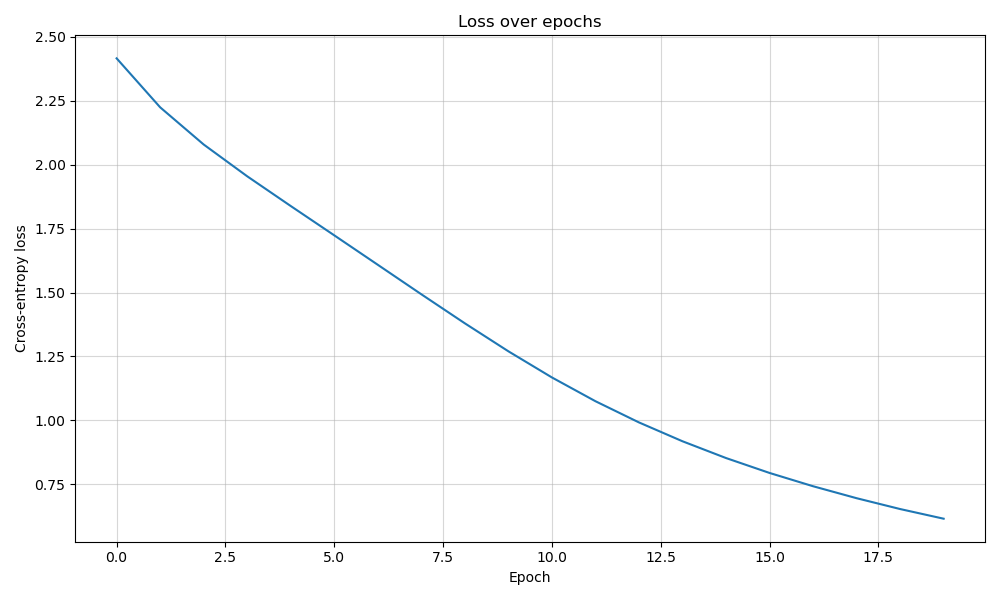
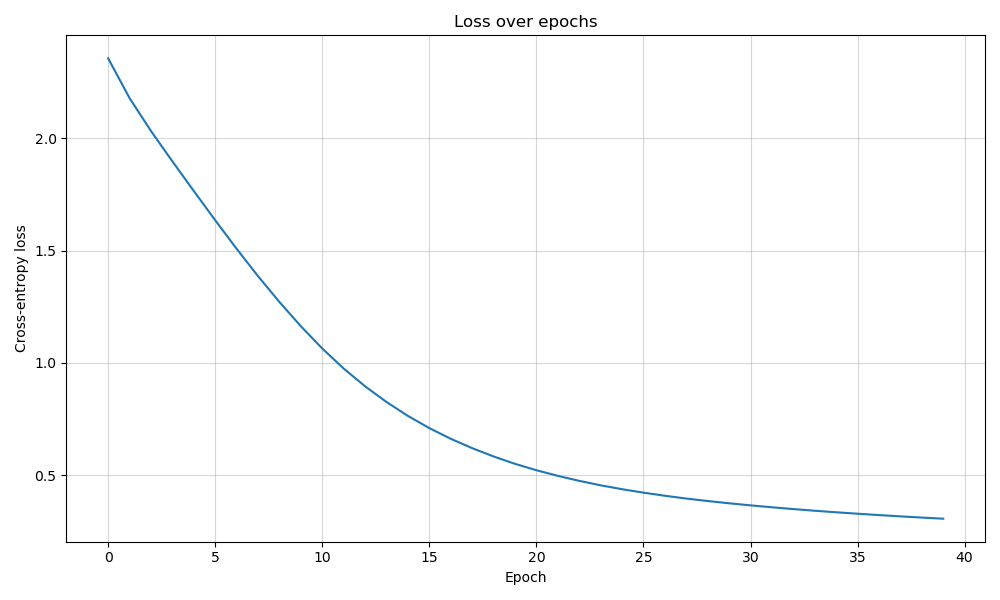
final numba implementation using fastmath

diff --git a/numba_optimization/parallel_model.py b/numba_optimization/parallel_model.py
@@ -1,87 +1,148 @@
 import numpy as np
-from numba import njit, prange # type: ignore
-from tqdm import tqdm
+from numba import njit #type: ignore
+import sys
+import os
 import time
+from tqdm import tqdm  # or from tqdm.notebook import tqdm if in a notebook
+
+# Add the project root directory to sys.path
+sys.path.insert(0, os.path.abspath(os.path.join(os.path.dirname(__file__), '..')))
+
 from adam import AdamOptimizer
 
-@njit
-def relu(x):
-    return np.maximum(x, 0)
+# Standalone functions decorated with fastmath
+@njit(fastmath=True)
+def relu_core(x):
+    return np.maximum(0, x)
 
-@njit
-def softmax(x):
+@njit(fastmath=True)
+def softmax_core(x):
     exp_x = np.exp(x)
-    sum_exp = np.sum(exp_x)
+    # Replace keepdims=True with a reshape
+    sum_exp = np.sum(exp_x, axis=1).reshape(-1, 1)
     return exp_x / sum_exp
 
-@njit(parallel=True)
-def batch_forward_prop(X_batch, W1, b1, W2, b2, W3, b3):
-    n_samples = X_batch.shape[0]
-    outputs = np.empty((n_samples, W3.shape[1]))
-    #Loop over each sample in the batch in parallel
-    for i in prange(n_samples):
-        #Forward pass
-        z1 = np.dot(X_batch[i], W1) + b1
-        a1 = relu(z1)
-        z2 = np.dot(a1, W2) + b2
-        a2 = relu(z2)
-        z3 = np.dot(a2, W3) + b3
-        a3 = softmax(z3)
-        outputs[i] = a3
-    return outputs
+@njit(fastmath=True)
+def forward_prop_core(X, W1, b1, W2, b2, W3, b3):
+    # Compute layer 1
+    z1 = np.dot(X, W1) + b1
+    a1 = relu_core(z1)
+    # Compute layer 2
+    z2 = np.dot(a1, W2) + b2
+    a2 = relu_core(z2)
+    # Compute output layer
+    z3 = np.dot(a2, W3) + b3
+    a3 = softmax_core(z3)
+    return a3, z1, a1, z2, a2, z3
 
-@njit
-def cross_entropy_loss_numba(y, y_hat):
-    m = y.shape[0]
-    # Compute loss averaged over batch
-    loss = -np.sum(y * np.log(y_hat)) / m
-    return loss
+@njit(fastmath=True)
+def cross_entropy_loss_core(y, y_hat):
+    return -np.sum(y * np.log(y_hat)) / y.shape[0]
 
 class NeuralNetwork:
-
+    
     def __init__(self, input_size, hidden_size, output_size):
         self.input_size = input_size
         self.hidden_size = hidden_size
         self.output_size = output_size
-        self._init_params(input_size, hidden_size, output_size)
+        self.init_params(input_size, hidden_size, output_size)
 
-    def He_initialization(self, size1, size2):
-        return np.random.randn(size1, size2) * np.sqrt(2/size1)
+    def He_initialization(self, input_size, hidden_size):
+        return np.random.randn(input_size, hidden_size) * np.sqrt(2/input_size)
     
-    def _init_params(self, input_size, hidden_size, output_size):
+    def init_params(self, input_size, hidden_size, output_size):
         self.W1 = self.He_initialization(input_size, hidden_size)
-        self.b1 = np.zeros(hidden_size)
+        self.b1 = np.zeros((1, hidden_size))
         self.W2 = self.He_initialization(hidden_size, hidden_size)
-        self.b2 = np.zeros(hidden_size)
+        self.b2 = np.zeros((1, hidden_size))
         self.W3 = self.He_initialization(hidden_size, output_size)
-        self.b3 = np.zeros(output_size)
+        self.b3 = np.zeros((1, output_size))
+    
+    def warmup(self):
+        # Warm up the JIT compiler
+        relu_core(np.zeros((1, self.hidden_size)))
+        softmax_core(np.zeros((1, self.output_size)))
+        forward_prop_core(np.zeros((1, self.input_size)), self.W1, self.b1, self.W2, self.b2, self.W3, self.b3)
+        cross_entropy_loss_core(np.zeros((1, self.output_size)), np.zeros((1, self.output_size)))
 
-    def warm_up(self, X):
-        _ = batch_forward_prop(X[:2], self.W1, self.b1, self.W2, self.b2, self.W3, self.b3)
-        _ = relu(np.array([1.0, -1.0]))
-        _ = softmax(np.array([1.0, 2.0]))
-
-    def forward(self, X):
-        return batch_forward_prop(X, self.W1, self.b1, self.W2, self.b2, self.W3, self.b3)
-
-    def train(self, X, epochs, batch_size):
-        n_samples = X.shape[0]
-        n_batches = n_samples // batch_size
-
+    def forward_propagation(self, X):
+        # Call the standalone, fastmath-enabled function
+        self.a3, self.z1, self.a1, self.z2, self.a2, self.z3 = forward_prop_core(
+            X, self.W1, self.b1, self.W2, self.b2, self.W3, self.b3
+        )
+        return self.a3
+    
+    def cross_entropy_loss(self, y, y_hat):
+        return cross_entropy_loss_core(y, y_hat)
+    
+    def compute_gradients(self, X, y):
+        m = X.shape[0]
+        dz3 = self.a3 - y
+        dW3 = np.dot(self.a2.T, dz3) / m
+        db3 = np.sum(dz3, axis=0, keepdims=True) / m
+        dz2 = np.dot(dz3, self.W3.T) * (self.a2 > 0)
+        dW2 = np.dot(self.a1.T, dz2) / m
+        db2 = np.sum(dz2, axis=0, keepdims=True) / m
+        dz1 = np.dot(dz2, self.W2.T) * (self.a1 > 0)
+        dW1 = np.dot(X.T, dz1) / m
+        db1 = np.sum(dz1, axis=0, keepdims=True) / m
+        return [dW1, db1, dW2, db2, dW3, db3]
+    
+    def train(self, X, y, learning_rate, epochs):
+        parameters = [self.W1, self.b1, self.W2, self.b2, self.W3, self.b3]
+        adam = AdamOptimizer(parameters, learning_rate=learning_rate)
+        self.loss_values = []
+        
         start_time = time.time()
-        preds = []
-        for epoch in range(epochs):
-            pred = []
-            for i in range(n_batches):
-                start = i * batch_size
-                end = start + batch_size
-                X_batch = X[start:end]
-                y_hat = self.forward(X_batch)
-                predictions = np.argmax(y_hat, axis=1)
-                preds.append(predictions)
-            preds.append(pred)
-            print(f"Epoch {epoch+1}/{epochs}")
-        end_time = time.time()
-        print(f"Training time: {end_time - start_time:.2f} seconds")
-        return preds
-            
+        with tqdm(range(epochs), desc="Training", unit="epoch") as pbar:
+            for i in pbar:
+                y_hat = self.forward_propagation(X)
+                loss = self.cross_entropy_loss(y, y_hat)
+                self.loss_values.append(loss)
+                
+                gradients = self.compute_gradients(X, y)
+                adam.update(gradients)
+                self.W1, self.b1, self.W2, self.b2, self.W3, self.b3 = adam.parameters
+                pbar.set_postfix(loss=f'{loss:.4f}')
+        total_time = time.time() - start_time
+        print(f"Total training time: {total_time:.2f} seconds")
+        
+    def predict(self, X):
+        return np.argmax(self.forward_propagation(X), axis=1)
+    
+    def evaluate(self, X, y):
+        y_pred = self.predict(X)
+        return np.mean(y_pred == np.argmax(y, axis=1)) * 100
+    
+    def save_model(self, file_name):
+        np.save(file_name, [self.W1, self.b1, self.W2, self.b2, self.W3, self.b3])
+    
+    def load_model(self, file_name):
+        self.W1, self.b1, self.W2, self.b2, self.W3, self.b3 = np.load(file_name, allow_pickle=True)
+    
+    def __repr__(self):
+        return f"NeuralNetwork(input_size={self.input_size}, hidden_size={self.hidden_size}, output_size={self.output_size})"
+    
+    def __str__(self):
+        return f"NeuralNetwork with {self.input_size} input nodes, {self.hidden_size} hidden nodes, and {self.output_size} output nodes"
+    
+    def __len__(self):
+        return self.hidden_size
+    
+    def plot_loss(self, filename="loss_plot", format="png", show_inline=False, save=True):
+        try:
+            import matplotlib.pyplot as plt
+            from IPython.display import Image, display
+        except ImportError as e:
+            raise ImportError("matplotlib and IPython are required. Install with 'pip install matplotlib ipython'.")
+        
+        plt.figure(figsize=(10, 6))
+        plt.plot(self.loss_values)
+        #plt.scatter(range(len(self.loss_values)), self.loss_values, color='r')
+        plt.title("Loss over epochs")
+        plt.xlabel("Epoch")
+        plt.ylabel("Cross-entropy loss")
+        plt.grid(True, alpha=0.5)
+        plt.tight_layout()
+        if save:
+            plt.savefig(f"plots/{filename}.{format}", format=format)
